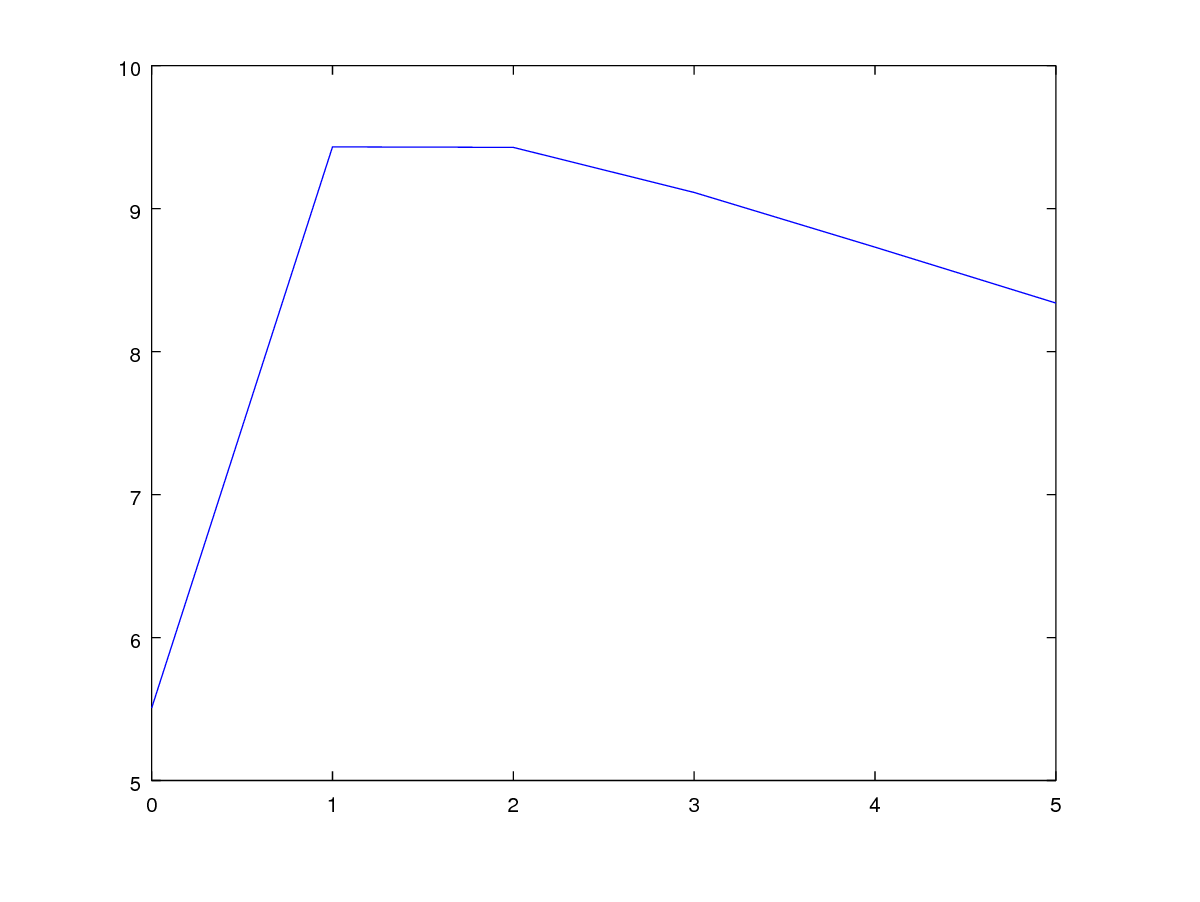
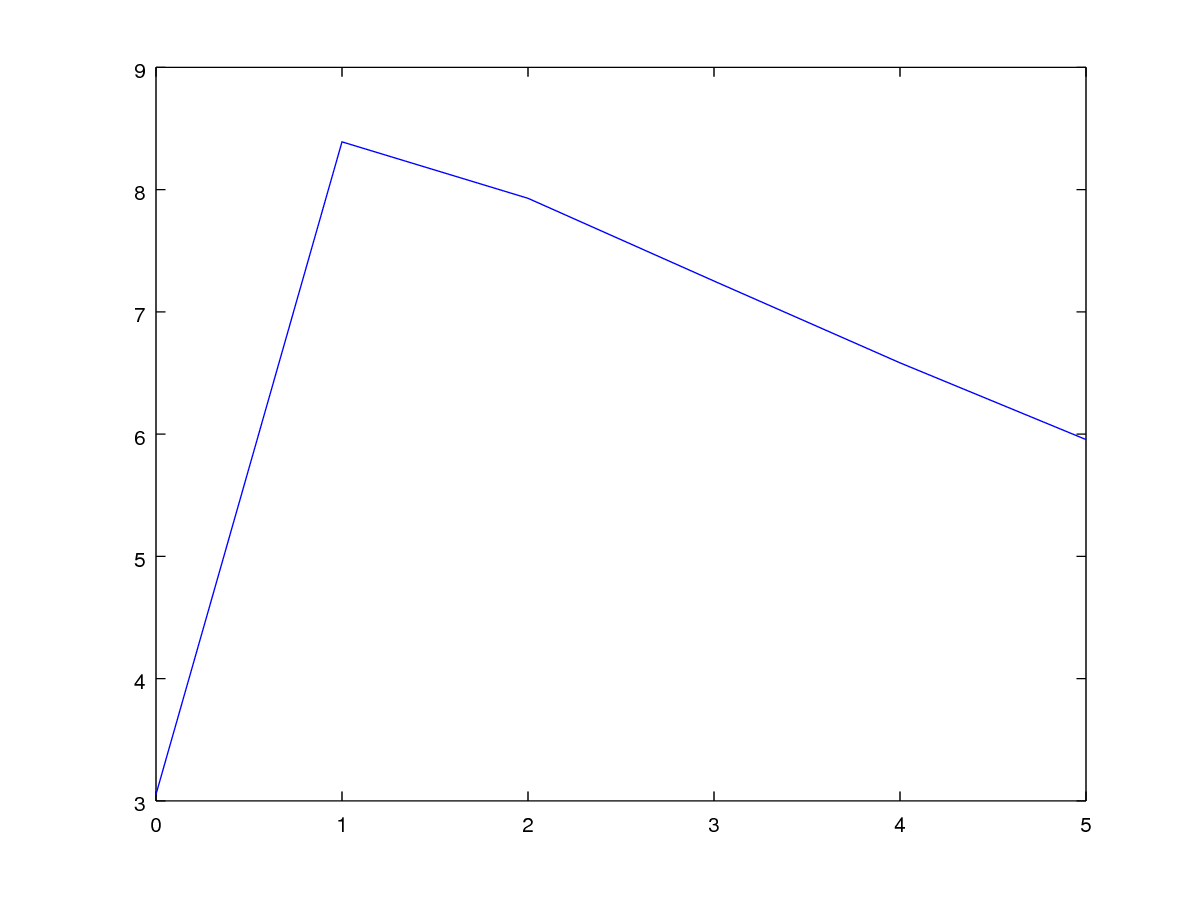
List 1: Exercise 2: fixed

diff --git a/list1/ex3.m b/list1/ex3.m
@@ -6,15 +6,14 @@ load ex1data3.txt
 x = ex1data3(:, 1:5);
 y = ex1data3(:, 6);
 
-training_size = 31;
+training_size = 30;
 test_size = size(x, 1) - training_size;
 
 training_x = x(1:training_size, :);
 training_y = y(1:training_size, :);
 
 test_x = x(training_size+1:training_size+test_size, :);
-test_y = x(training_size+1:training_size+test_size, :);
-
+test_y = y(training_size+1:training_size+test_size, :);
 
 lambdas = [0; 1; 2; 3; 4; 5];
 lambda_weights = regular_batch(training_x, training_y, lambdas);
@@ -25,27 +24,26 @@ disp(lambda_weights);
 % Item 2: lambda x Square Mean Erro in training and test sets
 
 % Util function
-function errors = sme(x, y, weights)
-  x_size = size(x, 1);
+function errors = sme(tx, ty, weights)
+  tx_size = size(tx, 1);
   weights_size = size(weights, 1);
-
   errors = zeros(weights_size, 1);
+  
   for l = 1:weights_size
-    
-    error = 0;
+    error_sum = 0;
     w = weights(l);
     
-    for i = 1:x_size
-      xi = x(i);
-      yi = y(i);
-      y_ = xi * w;
-      e_ = y_ - yi;
-      error = error + e_ * e_;
+    for i = 1:tx_size
+      txi = tx(i);
+      tyi = ty(i);
+      te = tyi - txi * w;
+      error_sum = error_sum + te * te;
     endfor
     
-    errors(l,:) = error / x_size;
+    errors(l,:) = error_sum / tx_size;
     
   endfor 
+
 endfunction
 
 % Item 2.1: lambda x Square Mean Erro in training
@@ -54,13 +52,13 @@ figure(1);
 plot(lambdas, training_errors);
 
 
-% Item 2.2: lambda x Square Mean Erro in training
-test_errors = sme(test_x, training_y, lambda_weights); 
+% Item 2.2: lambda x Square Mean Erro in test
+test_errors = sme(test_x, test_y, lambda_weights); 
 figure(2);
 plot(lambdas, test_errors);
 
 % Item extra: plotting the 2 graphs in same figure
 figure(3);
-plot(lambdas, training_errors, 'g');
+plot(lambdas, training_errors, 'b');
 hold on;
 plot(lambdas, test_errors, 'r');
